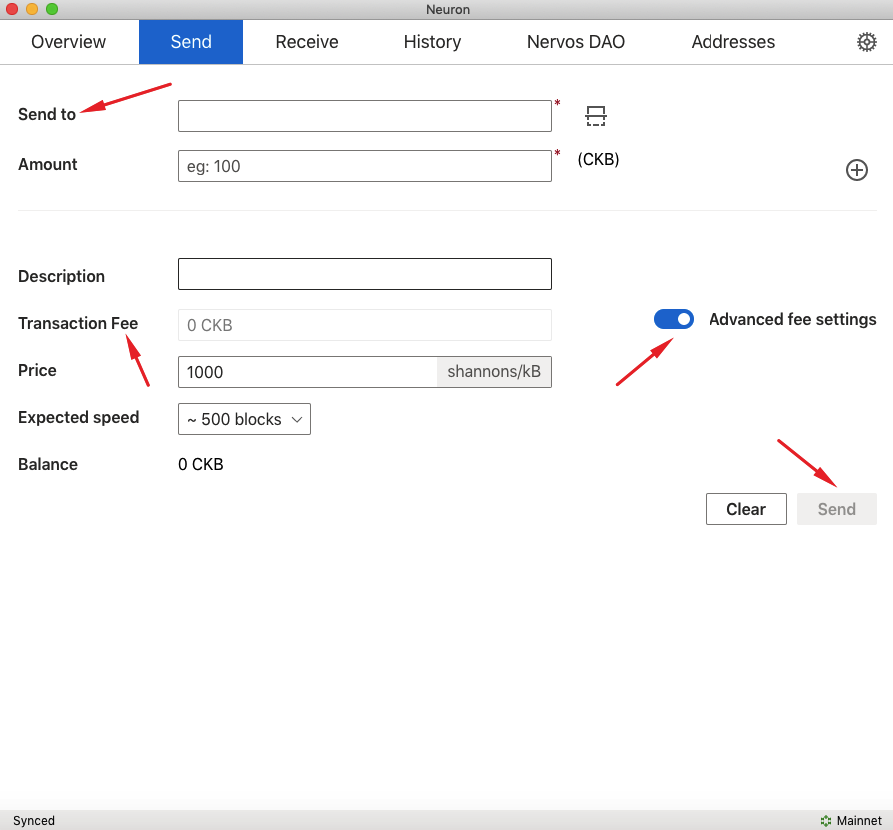
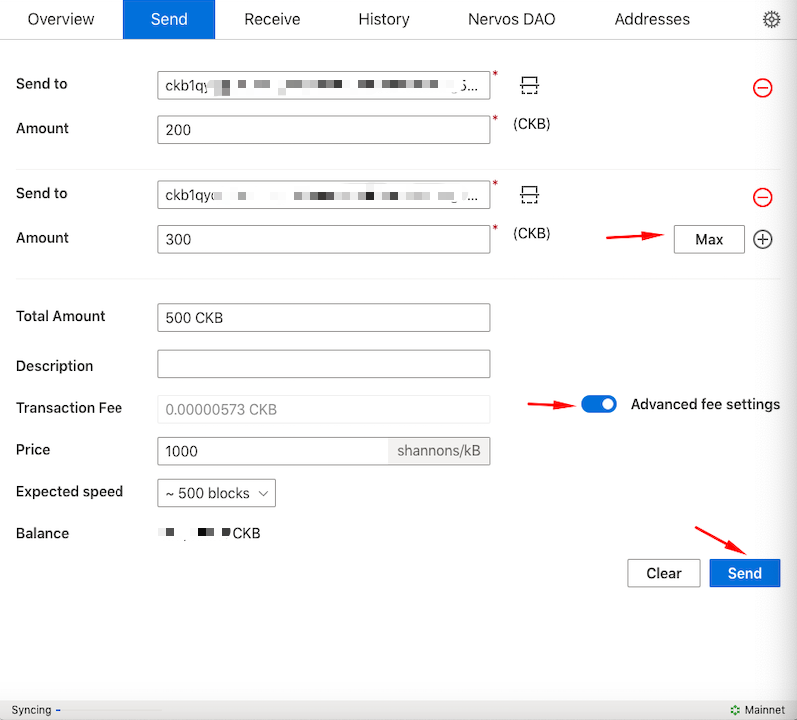
docs：update introduction and getting started

diff --git a/docs/getting-started/deposit-nervosdao.md b/docs/getting-started/deposit-nervosdao.md
@@ -2,17 +2,16 @@
 id: deposit-nervosdao
 title: Deposit CKBytes into Nervos DAO
 ---
-Since the Nervos CKB mainnet launched, over 923 Million CKBytes have been deposited into the Nervos DAO (at the time of writing). The Nervos DAO allows users to lock CKBytes (that are not being used) and receive **rewards** from secondary issuance. 
+Since the Nervos CKB mainnet launched, over 1.1 billion CKBytes have been deposited into the Nervos DAO (at the time of writing). The Nervos DAO allows users to lock CKBytes (that are not being used) and receive **rewards** from secondary issuance. 
 
 Please refer to [Nervos DAO Explained](https://medium.com/nervosnetwork/nervos-dao-explained-95e33898b1c) for more details. In this section, you will learn about how to deposit CKByte tokens into Nervos DAO.
 
 Please follow these instructions:
-#### Step 1: [Run a CKB Mainnet node](/getting-started/run-node)
-#### Step 2: Download and install Neuron Wallet
+**Step 1: Download and install Neuron Wallet**
 
-  * Download the latest release version of the Neuron Wallet from the [Neuron Wallet releases page on Github](https://github.com/nervosnetwork/neuron/releases) and install it. **Please make sure that the CKB Mainnet Node (v0.25.2 or later) is running**. 
+  * Download the latest release version of the Neuron Wallet from the [Neuron Wallet releases page on Github](https://github.com/nervosnetwork/neuron/releases) and install it. **Please make sure that the Neuron Wallet's version is v0.26.0 or later**. 
 
-#### Step 3: Create a new wallet, or import your keystore file or seed phrase to the Neuron Wallet
+**Step 2: Create a new wallet, or import your keystore file or seed phrase to the Neuron Wallet**
 
 * If you are using a new wallet, you can simply follow the steps within the Neuron Wallet.
 
@@ -36,19 +35,23 @@ Please follow these instructions:
 
 <img src="../assets/getting-started/import-keystore2.png" width = "600"/>
 
-<img src="../assets/getting-started/sync.png" width = "600"/>
-
 - To import the mnemonic seed phrase, choose “Import Wallet Seed”, fill in your password and wait for synchronization to end. **The password does not need to match the original password from the Neuron Key Manager.**
 
 <img src="../assets/getting-started/import-seed1.png" width = "600"/>
 
 <img src="../assets/getting-started/import-seed2.png" width = "600"/>
 
-<img src="../assets/getting-started/sync.png" width = "600"/>
+**Step 3： Wait for synchronization to end**
+
+**Please note that you need to wait for the synchronization to end.** You can cross-check the `Block Number` with CKB-Explorer's `Latest Block` to make sure the synchronization to end.
+
+<img src="../assets/getting-started/blocknumber.png" width = "600"/>
+
+<img src="../assets/getting-started/number-explorer.png" width = "600"/>
 
 Congratulations, once the Neuron wallet is synced, you will have full access to your tokens! Now you can deposit CKBytes into the Nervos DAO.
 
-#### Step 4: Deposit into Nervos DAO
+**Step 4: Deposit into Nervos DAO**
 
 **Please make sure your balance is greater than 102 CKB.**
 <img src="../assets/getting-started/deposit.png" width = "600"/>

diff --git a/docs/tooling/introduction.md b/docs/tooling/introduction.md
@@ -12,18 +12,24 @@ At this time, Nervos CKB tooling includes (will be not limited to) the following
 
 ### For users: 
 
+**Lina Mainnet**  [Github](https://github.com/nervosnetwork/ckb) | [Chain info](https://github.com/nervosnetwork/ckb/wiki/Chains)
+* The release of the Lina Mainnet occurred at 9:11 PM UTC on Nov 15. Please join us as we launch the decentralized infrastructure for the new economy [Run a CKB Mainnet node](/getting-started/run-node).
+
 **Neuron Wallet**  [Github](https://github.com/nervosnetwork/neuron) | [Download](https://github.com/nervosnetwork/neuron/releases)
 * Neuron Wallet is an official Nervos CKB wallet. It holds users’ keys, can create 
 and broadcast transactions to the peer to peer network, and also provides the ability to easily **Deposit and Withdraw into the Nervos DAO**.
  Neuron Wallet is a cross platform desktop app for Windows, macOS and Linux, you can [download here](https://github.com/nervosnetwork/neuron/releases) and install it.
 
 **CKB-Explorer**  [Github](https://github.com/nervosnetwork/ckb-explorer) | [Link](https://explorer.nervos.org/)
-* CKB-Explorer allows you to explore the data of the Nervos CKB blockchain for transactions, addresses, tokens, blocks, hashrate, **Nervos DAO info** and all other activities taking place on Nervos CKB. Please note that **CKB-Explorer is not a wallet service provider. We do not store your private keys and we have no control over the transactions that take place over the CKB Network.**
+* CKB-Explorer allows you to explore the data of the Nervos CKB Mainnet for transactions, addresses, tokens, blocks, hashrate, **Nervos DAO info** and all other activities taking place on Nervos CKB. Please note that **CKB-Explorer is not a wallet service provider. We do not store your private keys and we have no control over the transactions that take place over the CKB Network.**
 
 ### For developers：
 
 **Aggron Testnet**  [Github](https://github.com/nervosnetwork/ckb) | [Chain info](https://github.com/nervosnetwork/ckb/wiki/Chains)
 * Aggron Testnet has launched, allowing developers to test their integrations and smart contracts in a simulated live environment. **Please note that the CKBytes in Aggron Testnet have no real value.**
+
+**Testnet Explorer** [Link](https://explorer.nervos.org/aggron/)
+* Testnet Explorer allows you to explore the data of the Nervos CKB Testnet for transactions, addresses, tokens, blocks, hashrate, **Nervos DAO info** and all other activities taking place on Testnet. Please note that **Testnet Explorer is not a wallet service provider. We do not store your private keys and we have no control over the transactions that take place over the CKB Network.**
 
 **ckb-sdk**
 * There are a couple different aspects to developing blockchain applications with CKB:

diff --git a/docs/getting-started/transfer-ckbytes.md b/docs/getting-started/transfer-ckbytes.md
@@ -1,0 +1,22 @@
+---
+id: transfer-ckbytes
+title: Transfer CKBytes from Neuron Wallet to the third party
+---
+
+Neuron Wallet is an official Nervos CKB wallet. It holds users’ keys, can create and broadcast transactions to the peer to peer network. Before transfering CKBytes,please prepare the third party wallet/exchange destination address in advance. **Please make sure your balance is greater than 62 CKB.**
+
+Step 1: Download and install Neuron Wallet
+Download the latest release version with a bundled CKB node from the [releases page on Github](https://github.com/nervosnetwork/neuron/releases) and install it. **Please make sure the version is v0.26.0 or later.**
+
+Step 2：Create a new Wallet and wait for the synchronization to end.
+**Please note that you need to wait for the synchronization to end.** You can cross-check the `Block Number` with CKB-Explorer's `Latest Block` to make sure the synchronization to end.
+
+<img src="../assets/getting-started/blocknumber.png" width = "600"/>
+
+<img src="../assets/getting-started/number-explorer.png" width = "600"/>
+
+Step 3：Transfer CKBytes from Neuron Wallet to the third party.
+
+* Under the `Send` tab, fill in the address details in the `Send to` field. Click the `Max` to add multi-transactions. Turn on the `Advanced fee settings` and fill in the `Transaction fee` — click the `Send` button to complete your transfer.
+
+<img src="../assets/getting-started/transfer.png" width = "600"/>

diff --git a/docs/getting-started/introduction.md b/docs/getting-started/introduction.md
@@ -5,14 +5,12 @@ title: Introduction
 Following mainnet launch, many people want to use the Nervos CKB Mainnet. In this section, you will learn about how to run a CKB node and use the Nervos CKB Mainnet. This includes:
 
 1. How to run a CKB Mainnet node
-2. How to deposit CKByte tokens into the Nervos DAO
-3. How to withdraw CKByte tokens from the Nervos DAO
-4. How to transfer CKBytes from the Neuron Wallet to other wallets and exchanges
-5. How to look up transaction info on CKB-Explorer
+2. How to look up transaction info on CKB-Explorer
+3. How to transfer CKBytes from the Neuron Wallet to other wallets and exchanges
+4. How to deposit CKBytes into the Nervos DAO
+5. How to withdraw CKBytes from the Nervos DAO
 
-**#‘s 2, 3, and 4** will be completed through the Neuron Wallet. In order to use the Neuron wallet, **# 1** is required, syncing with the Nervos CKB blockchain.
-
-**#‘s 2, 3, and 4** will generate transaction info after completing the operations and with **# 5** is required, looking up the transaction info on CKB-Explorer.
+**#‘s 3, 4, and 5** will be completed through the Neuron Wallet. **#‘s 3, 4, and 5** will also generate transaction info after completing the operations and with **# 2** is required, looking up the transaction info on CKB-Explorer.
 
 If you run into issues when following this guide, please join the [official Nervos Telegram](https://t.me/NervosNetwork) channel for support.
 

diff --git a/docs/getting-started/lookup-transaction.md b/docs/getting-started/lookup-transaction.md
@@ -6,7 +6,7 @@ title: Look up transaction info on CKB-Explorer
 
 CKB-Explorer facilitates blockchain transparency by indexing and making all Nervos CKB transactions searchable in the most accessible way possible.
 
-**CKB-Explorer is not a wallet service provider, we do not store your private keys and we have no control over the transactions that take place over the CKB Network.**
+**Please note that CKB-Explorer is not a wallet service provider, we do not store your private keys and we have no control over the transactions that take place over the CKB Network.**
 
 To view a transaction on CKB-Explorer, please follow these instructions:
 

diff --git a/docs/tooling/community.md b/docs/tooling/community.md
@@ -1,6 +1,6 @@
 ---
-id: from-community
-title: From Community
+id: community
+title: Community Contribution
 ---
 As we know, sustainable development needs community development! We welcome developers to provide passion, innovation and diversity of ideas to improve Nervos. Beyond the [introduction](/tooling/introduction), here's our list of community development projects:
 

diff --git a/docs/getting-started/withdraw-nervosdao.md b/docs/getting-started/withdraw-nervosdao.md
@@ -3,6 +3,8 @@ id: withdraw-nervosdao
 title: Withdraw CKBytes from Nervos DAO
 ---
 
+`Deposit Records` will display your deposit records list，you can click `withdraw`.
+
 <img src="../assets/getting-started/withdraw1.png" width = "600"/>
 
 After 4 epochs, the details will be displayed.
